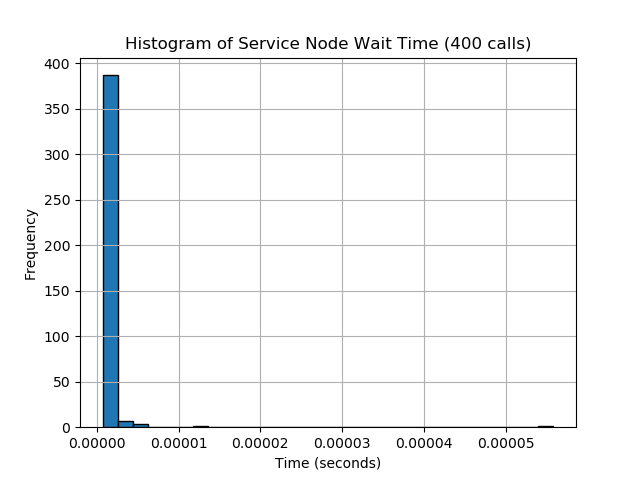
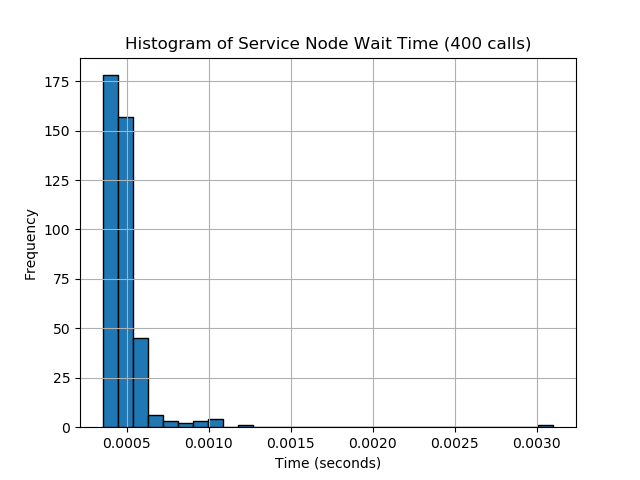
finish hw2

diff --git a/hw2/src/nipe1783_hw2/nipe1783_hw2/string_subscriber.py b/hw2/src/nipe1783_hw2/nipe1783_hw2/string_subscriber.py
@@ -1,0 +1,57 @@
+import rclpy
+from rclpy.node import Node
+from rclpy.clock import Clock
+from builtin_interfaces.msg import Time as TimeMsg
+import matplotlib.pyplot as plt
+import time
+
+class TimeDifferenceSubscriber(Node):
+    def __init__(self):
+        super().__init__('time_difference_subscriber')
+        self.subscription = self.create_subscription(
+            TimeMsg,
+            'system_clock',
+            self.listener_callback,
+            10)
+        self.clock = Clock()
+        self.message_times = []
+        self.received_times = []
+        self.i = 0
+
+    def listener_callback(self, msg):
+        now = self.clock.now()
+        print(f"Received: {msg.sec} seconds and {msg.nanosec} nanoseconds")
+        now_sec = now.to_msg().sec + now.to_msg().nanosec / 1e9
+        msg_time_sec = msg.sec + msg.nanosec / 1e9
+        self.message_times.append(msg_time_sec)
+        self.received_times.append(now_sec)
+        self.i += 1
+
+        if self.i >= 400:
+            self.calculate_differences_and_plot()
+            rclpy.shutdown()
+
+    def calculate_differences_and_plot(self):
+        time_differences = [recv - msg for msg, recv in zip(self.message_times, self.received_times)]
+        
+        plt.hist(time_differences, bins=30, edgecolor='black')
+        plt.title('Histogram of Time Differences for 400 Messages')
+        plt.xlabel('Time Difference (seconds)')
+        plt.ylabel('Frequency')
+        plt.grid(True)
+        plt.show()
+
+def main(args=None):
+    rclpy.init(args=args)
+    print("Starting Subscriber...")
+    time_difference_subscriber = TimeDifferenceSubscriber()
+    try:
+        rclpy.spin(time_difference_subscriber)
+    except KeyboardInterrupt:
+        pass
+    finally:
+        time_difference_subscriber.destroy_node()
+        rclpy.shutdown()
+
+if __name__ == '__main__':
+    main()

diff --git a/hw2/src/nipe1783_hw2/nipe1783_hw2/string_publisher.py b/hw2/src/nipe1783_hw2/nipe1783_hw2/string_publisher.py
@@ -1,0 +1,33 @@
+import rclpy
+from rclpy.node import Node
+from rclpy.time import Time
+from builtin_interfaces.msg import Time as TimeMsg
+
+class SystemClockPublisher(Node):
+    def __init__(self):
+        super().__init__('system_clock_publisher')
+        self.publisher = self.create_publisher(TimeMsg, 'system_clock', 10)
+        timer_period = 0.01
+        self.timer = self.create_timer(timer_period, self.publish_current_time)
+
+    def publish_current_time(self):
+        now = self.get_clock().now()
+        time_msg = TimeMsg()
+        time_msg.sec = now.seconds_nanoseconds()[0]
+        time_msg.nanosec = now.seconds_nanoseconds()[1]
+        self.publisher.publish(time_msg)
+        self.get_logger().info(f'Publishing: {time_msg.sec} seconds and {time_msg.nanosec} nanoseconds')
+
+def main(args=None):
+    rclpy.init(args=args)
+    system_clock_publisher = SystemClockPublisher()
+    try:
+        rclpy.spin(system_clock_publisher)
+    except KeyboardInterrupt:
+        pass
+    finally:
+        system_clock_publisher.destroy_node()
+        rclpy.shutdown()
+
+if __name__ == '__main__':
+    main()

diff --git a/hw2/src/nipe1783_hw2/nipe1783_hw2/string_reversal_client.py b/hw2/src/nipe1783_hw2/nipe1783_hw2/string_reversal_client.py
@@ -1,7 +1,7 @@
 import sys
 import rclpy
 from rclpy.node import Node
-from a108458614_service.srv import ProcessString
+from nipe1783_service.srv import ProcessString
 import matplotlib.pyplot as plt
 import time
 
@@ -19,6 +19,7 @@ class StringReversalClient(Node):
 
 def main(args=None):
     rclpy.init(args=args)
+    print("Starting client...")
     string_reversal_client = StringReversalClient()
 
     adjusted_rtts = []
@@ -37,7 +38,7 @@ def main(args=None):
             response = string_reversal_client.future.result()
             print('response: ', response.output_str, response.output_duration)
             service_time = response.output_duration
-            adjusted_rtt = service_time
+            adjusted_rtt = rtt - service_time
             adjusted_rtts.append(adjusted_rtt)
         except Exception as e:
             string_reversal_client.get_logger().info(f'Service call failed: {e}')

diff --git a/hw2/src/nipe1783_hw2/nipe1783_hw2/string_reversal_service.py b/hw2/src/nipe1783_hw2/nipe1783_hw2/string_reversal_service.py
@@ -1,7 +1,7 @@
 import rclpy
 from rclpy.node import Node
 from std_msgs.msg import String, Float64
-from a108458614_service.srv import ProcessString
+from nipe1783_service.srv import ProcessString
 import time
 
 class StringReversalService(Node):
@@ -20,6 +20,7 @@ class StringReversalService(Node):
 
 def main(args=None):
     rclpy.init(args=args)
+    print("Starting service...")
     service = StringReversalService()
     rclpy.spin(service)
     rclpy.shutdown()

diff --git a/hw2/src/nipe1783_hw2/setup.py b/hw2/src/nipe1783_hw2/setup.py
@@ -1,6 +1,6 @@
 from setuptools import setup, find_packages
 
-package_name = 'a108458614_hw2'
+package_name = 'nipe1783_hw2'
 
 setup(
     name=package_name,

diff --git a/hw2/running.md b/hw2/running.md
@@ -6,7 +6,7 @@ cd ~/dev/CSCI_4302/hw2
 colcon build
 source /opt/ros/foxy/setup.bash
 source ~/dev/CSCI_4302/hw2/install/setup.bash
-ros2 run a108458614_hw2 service
+ros2 run nipe1783_hw2 service
 ```
 
 ```bash
@@ -14,7 +14,7 @@ cd ~/dev/CSCI_4302/hw2
 colcon build
 source /opt/ros/foxy/setup.bash
 source ~/dev/CSCI_4302/hw2/install/setup.bash
-ros2 run a108458614_hw2 client
+ros2 run nipe1783_hw2 client
 ``
 
 ```bash
@@ -22,7 +22,7 @@ cd ~/dev/CSCI_4302/hw2
 colcon build
 source /opt/ros/foxy/setup.bash
 source ~/dev/CSCI_4302/hw2/install/setup.bash
-ros2 run a108458614_hw2 publisher
+ros2 run nipe1783_hw2 publisher
 ``
 
 ```bash
@@ -30,6 +30,6 @@ cd ~/dev/CSCI_4302/hw2
 colcon build
 source /opt/ros/foxy/setup.bash
 source ~/dev/CSCI_4302/hw2/install/setup.bash
-ros2 run a108458614_hw2 subscriber
+ros2 run nipe1783_hw2 subscriber
 ``
 
